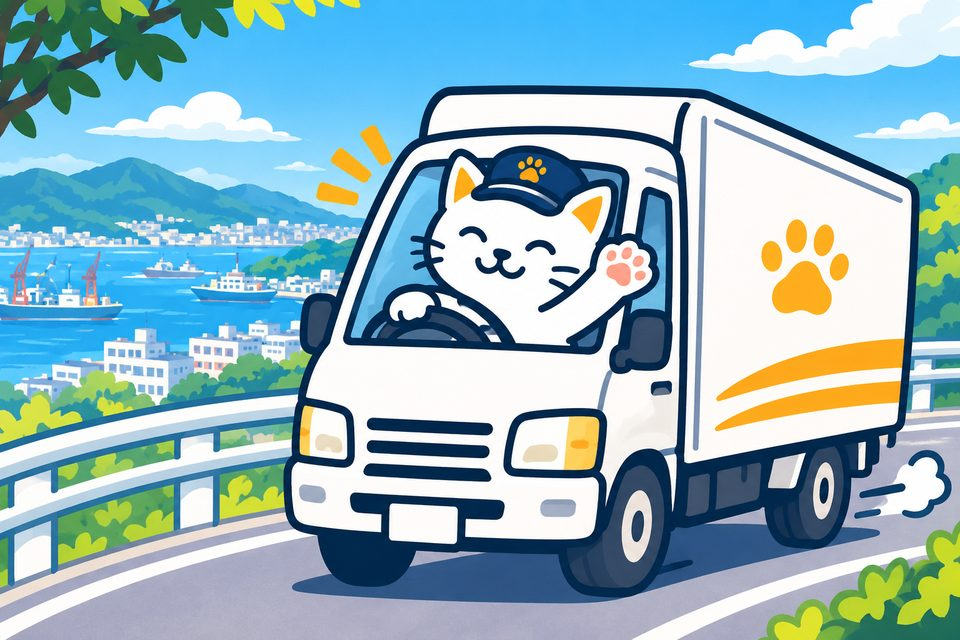
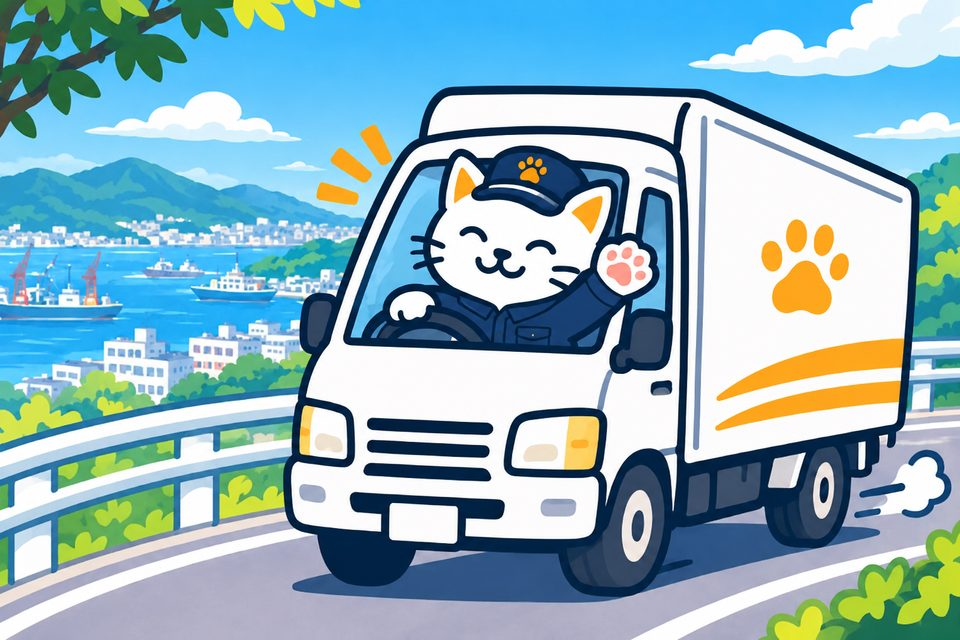
作業着版の猫イラストに差し替え、家具のみの運搬(works-03)を反映
Claude-Session: https://claude.ai/code/session_01ThdLgrSp6qkZTgPQHP1J1Z

diff --git a/index.html b/index.html
@@ -360,9 +360,9 @@
         <h3 class="works__ttl">家具のみの運搬</h3>
         <p class="works__meta">ソファ・冷蔵庫 ／ 作業時間：1時間</p>
         <div class="ba">
-          <figure class="ba__fig"><img src="images/works-03-before.svg" alt="作業前" width="320" height="220" loading="lazy"><figcaption>Before</figcaption></figure>
+          <figure class="ba__fig"><img src="images/works-03-before.jpg" alt="作業前（養生したソファと冷蔵庫）" width="960" height="640" loading="lazy"><figcaption>Before</figcaption></figure>
           <span class="ba__arrow" aria-hidden="true"></span>
-          <figure class="ba__fig"><img src="images/works-03-after.svg" alt="作業後" width="320" height="220" loading="lazy"><figcaption>After</figcaption></figure>
+          <figure class="ba__fig"><img src="images/works-03-after.jpg" alt="作業後（新居に設置したソファと冷蔵庫）" width="960" height="640" loading="lazy"><figcaption>After</figcaption></figure>
         </div>
       </li>
     </ul>
